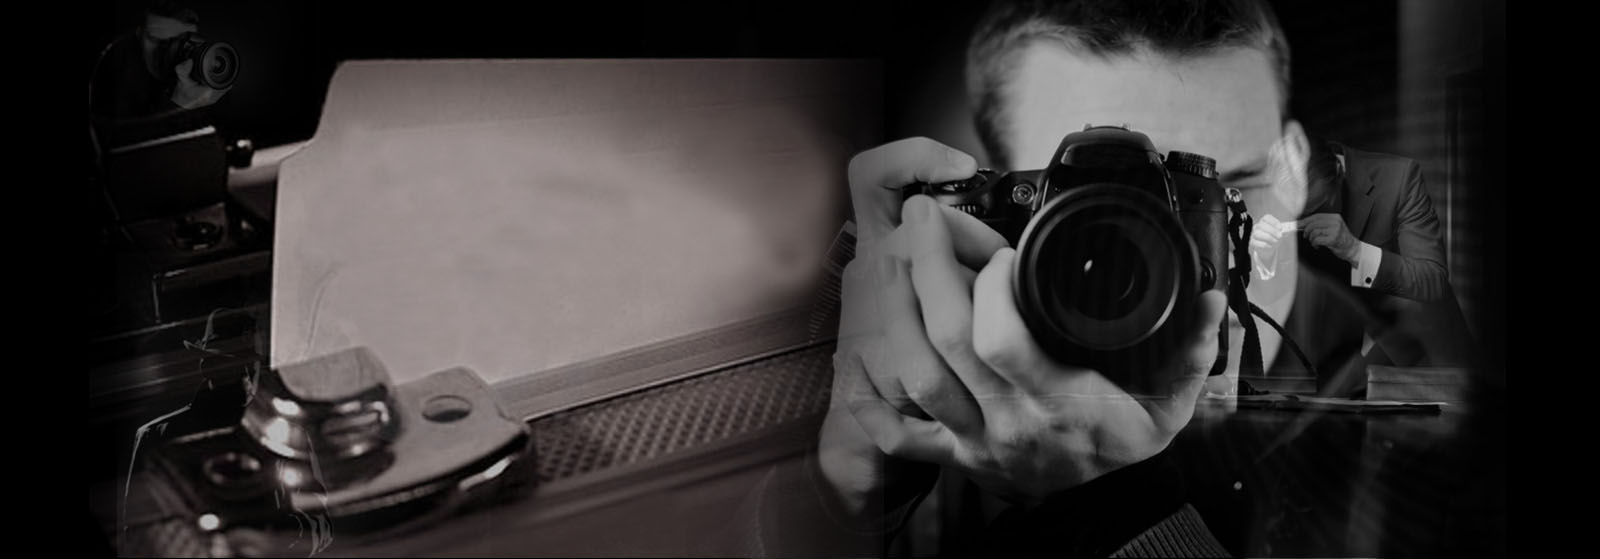
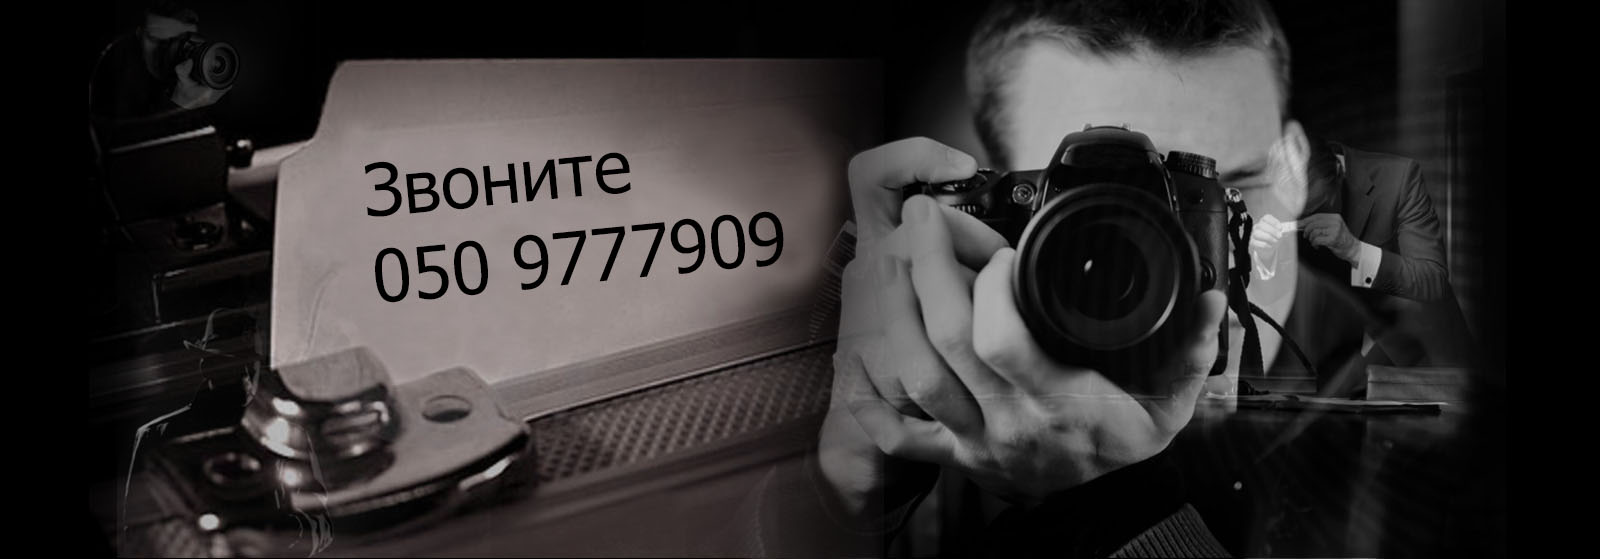
phone

Changed region(s): [[0.2188, 0.3649, 0.5, 0.5474], [0.2188, 0.2737, 0.4062, 0.3953]]

diff --git a/detective-kharkov/styles/custom.css b/detective-kharkov/styles/custom.css
@@ -324,7 +324,7 @@ a.btn, a.btn-large, a.btn-small, a.btn-mini {color:#333}
 
  .btn-primary:hover, .btn-primary:active, .btn-primary.active, .btn-primary.disabled, .btn-primary[disabled] {background-color:#399957;}
 
-#divHeaderText {padding-top: 140px; padding-bottom: 90px; padding-left: 90px; border-color: rgb(51, 51, 51); text-align: left;}
+#divHeaderText {padding-top: 300px; padding-bottom: 90px; padding-left: 90px; border-color: rgb(51, 51, 51); text-align: left;}
 
 #decorative2{background-image:-moz-linear-gradient(bottom,#369656,#40ac62);background-image:-o-linear-gradient(bottom,#369656,#40ac62);background-image:-webkit-gradient(linear,left top, left bottom,from(#369656),to(#40ac62));background-image:-webkit-linear-gradient(bottom,#369656,#40ac62);background-image:linear-gradient(to bottom,#40ac62,#369656);background-image:linear-gradient(bottom,#369656,#40ac62);}
 

diff --git a/detective-kharkov/index.html b/detective-kharkov/index.html
@@ -81,11 +81,13 @@
                 <div class="span12">
 
                         <div id="headerSeparator"></div>
-
                         <div id="divHeaderText" class="page-content">
+                      <!--
                             <div id="divHeaderLine1">Телефон : 050 9777909</div><br />
                             <div id="divHeaderLine2">Частный детектив город Харьков</div><br />
+                       -->
                         </div>
+                       
                         <div id="headerSeparator2"></div>
 
                 </div>
